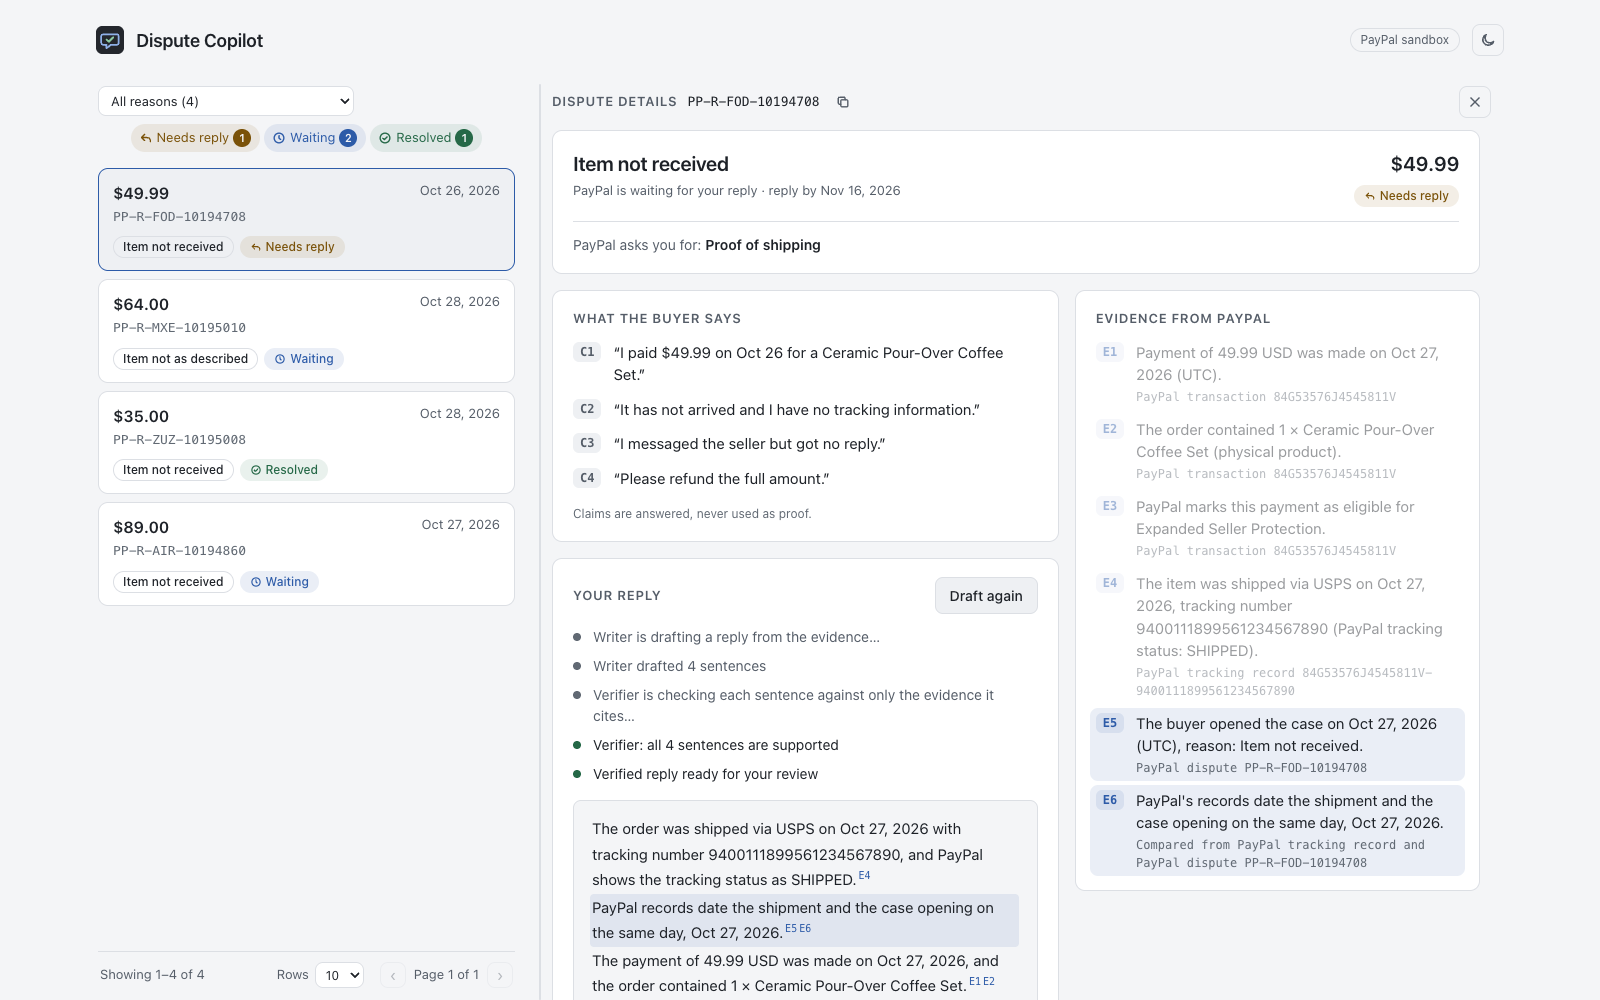
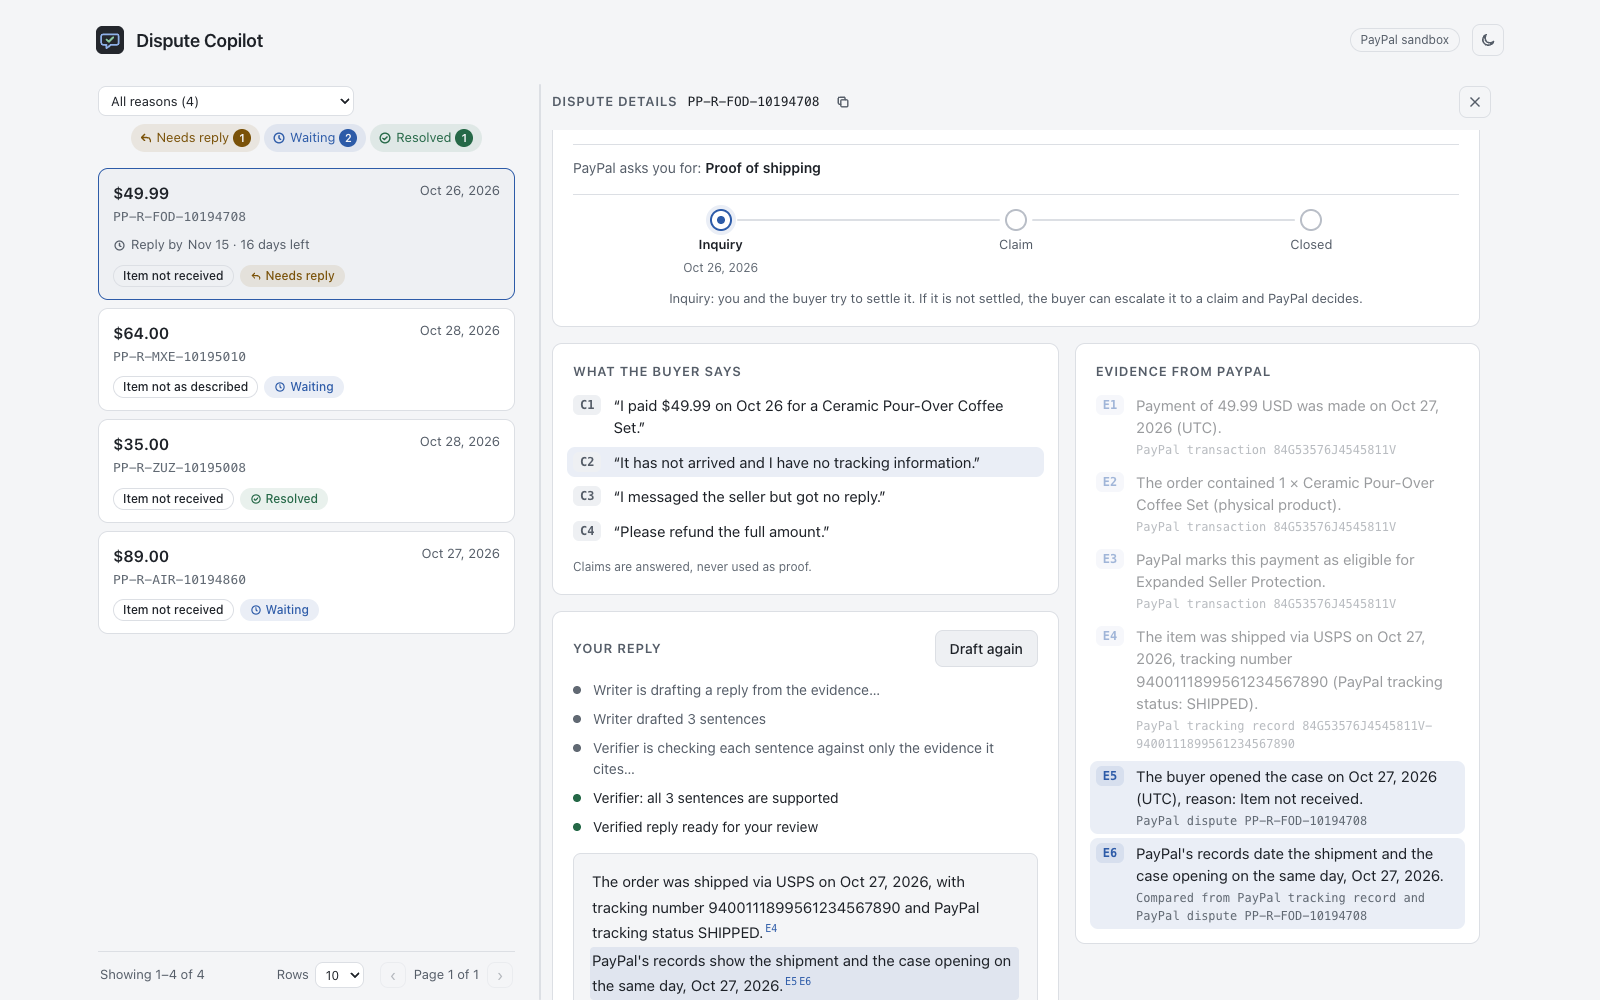
Reply-by in the viewer's own time zone; retake all images
The deadline now shows in the browser's time zone (the real last moment
to reply), with daylight saving handled by the zone rules for that date.
Hover shows the exact local time and PayPal's UTC time. Evidence text
stays in UTC because it is sent to PayPal. Tests cover Los Angeles (PST
after the Nov 1 change) and India (no DST).

Retook the README and Devpost images with the deadline and stage
timeline; the cover now has its own dark inner shot next to its source.

diff --git a/web/src/due.ts b/web/src/due.ts
@@ -1,18 +1,36 @@
 // PayPal's reply-by date in words a seller acts on. Missing it means PayPal decides the case
-// for the buyer, so the countdown gets louder as the date gets close.
+// for the buyer, so the countdown gets louder as the date gets close. Shown in the viewer's own
+// time zone (the real last moment they can reply); `exact` also gives PayPal's UTC time.
 
 const DAY = 24 * 60 * 60 * 1000
 
-export type Due = { text: string; tone: 'bad' | 'warn' | 'muted'; msLeft: number }
+export type Due = { text: string; exact: string; tone: 'bad' | 'warn' | 'muted'; msLeft: number }
 
 export function dueOf(iso: string | null | undefined, now = Date.now()): Due | null {
   if (!iso) return null
   const due = new Date(iso)
   const msLeft = due.getTime() - now
-  const date = due.toLocaleDateString('en-US', { month: 'short', day: 'numeric', timeZone: 'UTC' })
-  if (msLeft <= 0) return { text: `Overdue (was ${date})`, tone: 'bad', msLeft }
-  if (msLeft < DAY) return { text: `${date} · less than a day left`, tone: 'bad', msLeft }
+  const date = due.toLocaleDateString('en-US', { month: 'short', day: 'numeric' })
+  const local = due.toLocaleString('en-US', {
+    month: 'short',
+    day: 'numeric',
+    year: 'numeric',
+    hour: 'numeric',
+    minute: '2-digit',
+    timeZoneName: 'short',
+  })
+  const utc = due.toLocaleString('en-US', {
+    month: 'short',
+    day: 'numeric',
+    hour: '2-digit',
+    minute: '2-digit',
+    hourCycle: 'h23',
+    timeZone: 'UTC',
+  })
+  const exact = `Reply before ${local} (${utc} UTC)`
+  if (msLeft <= 0) return { text: `Overdue (was ${date})`, exact, tone: 'bad', msLeft }
+  if (msLeft < DAY) return { text: `${date} · less than a day left`, exact, tone: 'bad', msLeft }
   const days = Math.floor(msLeft / DAY)
   const left = days === 1 ? '1 day left' : `${days} days left`
-  return { text: `${date} · ${left}`, tone: days <= 2 ? 'bad' : days <= 5 ? 'warn' : 'muted', msLeft }
+  return { text: `${date} · ${left}`, exact, tone: days <= 2 ? 'bad' : days <= 5 ? 'warn' : 'muted', msLeft }
 }

diff --git a/web/src/Deadline.tsx b/web/src/Deadline.tsx
@@ -1,12 +1,13 @@
 import { dueOf } from './due'
 import { AlertIcon, ClockIcon } from './icons'
 
-/** "Reply by Nov 16 · 17 days left": amber at 5 days or fewer, red at 2 or fewer (words too). */
+/** "Reply by Nov 16 · 17 days left": amber at 5 days or fewer, red at 2 or fewer (words too).
+ *  Hover shows the exact local time and PayPal's UTC time. */
 export default function Deadline({ iso, label = 'Reply by' }: { iso: string | null | undefined; label?: string }) {
   const due = dueOf(iso)
   if (!due) return null
   return (
-    <span className={`due ${due.tone}`}>
+    <span className={`due ${due.tone}`} data-tip={due.exact}>
       {due.tone === 'bad' ? <AlertIcon /> : <ClockIcon />}
       {label && <span className="due-label">{label}</span>}
       {due.text}

diff --git a/docs/devpost/source/cover.html b/docs/devpost/source/cover.html
@@ -44,7 +44,7 @@
     <li><div class="tick"><svg width="14" height="14" viewBox="0 0 16 16" fill="none" stroke="#8cc9a4" stroke-width="2.2" stroke-linecap="round" stroke-linejoin="round"><path d="M3.5 8.5l3 3 6-7"/></svg></div><div><b>No proof? It says so</b> <span>and offers a fair refund</span></div></li>
   </ul>
   <div class="foot"><span class="pill">PayPal + AI</span><span class="pill">Microsoft Agent Framework</span><span class="pill">Sandbox demo</span></div>
-  <div class="shot"><img src="../2-every-sentence-cites-proof.png" alt=""></div>
+  <div class="shot"><img src="cover-shot.png" alt=""></div>
 </div>
 </body>
 </html>

diff --git a/tests/e2e/test_ui.py b/tests/e2e/test_ui.py
@@ -5,6 +5,7 @@ Uses Playwright's bundled Chromium in CI, your installed Chrome locally.
 """
 
 import os
+import re
 import socket
 import threading
 import time
@@ -183,3 +184,26 @@ def test_timeline_marks_a_claim_skipped_when_the_case_closed_at_inquiry(page: Pa
         ("Closed", "done"),
     ]
     expect(page.locator(".stage-note")).to_have_count(0)
+
+
+@pytest.mark.parametrize(
+    "zone, text, exact",
+    [
+        # Clocks went back on Nov 1: the deadline is in PST even though "now" is in PDT.
+        (
+            "America/Los_Angeles",
+            "Nov 15 · 16 days left",
+            "Reply before Nov 15, 2026, 4:29 PM PST (Nov 16, 00:29 UTC)",
+        ),
+        ("Asia/Kolkata", "Nov 16 · 16 days left", "Reply before Nov 16, 2026, 5:59 AM GMT+5:30"),
+    ],
+)
+def test_reply_by_shows_the_viewers_own_time_zone(browser, base_url, zone, text, exact):
+    context = browser.new_context(base_url=base_url, timezone_id=zone)
+    pg = context.new_page()
+    pg.clock.set_fixed_time("2026-10-30T12:00:00Z")
+    pg.goto("/")
+    cell = pg.locator("tbody tr").first.locator(".due")
+    expect(cell).to_have_text(text)
+    expect(cell).to_have_attribute("data-tip", re.compile("^" + re.escape(exact)))
+    context.close()
